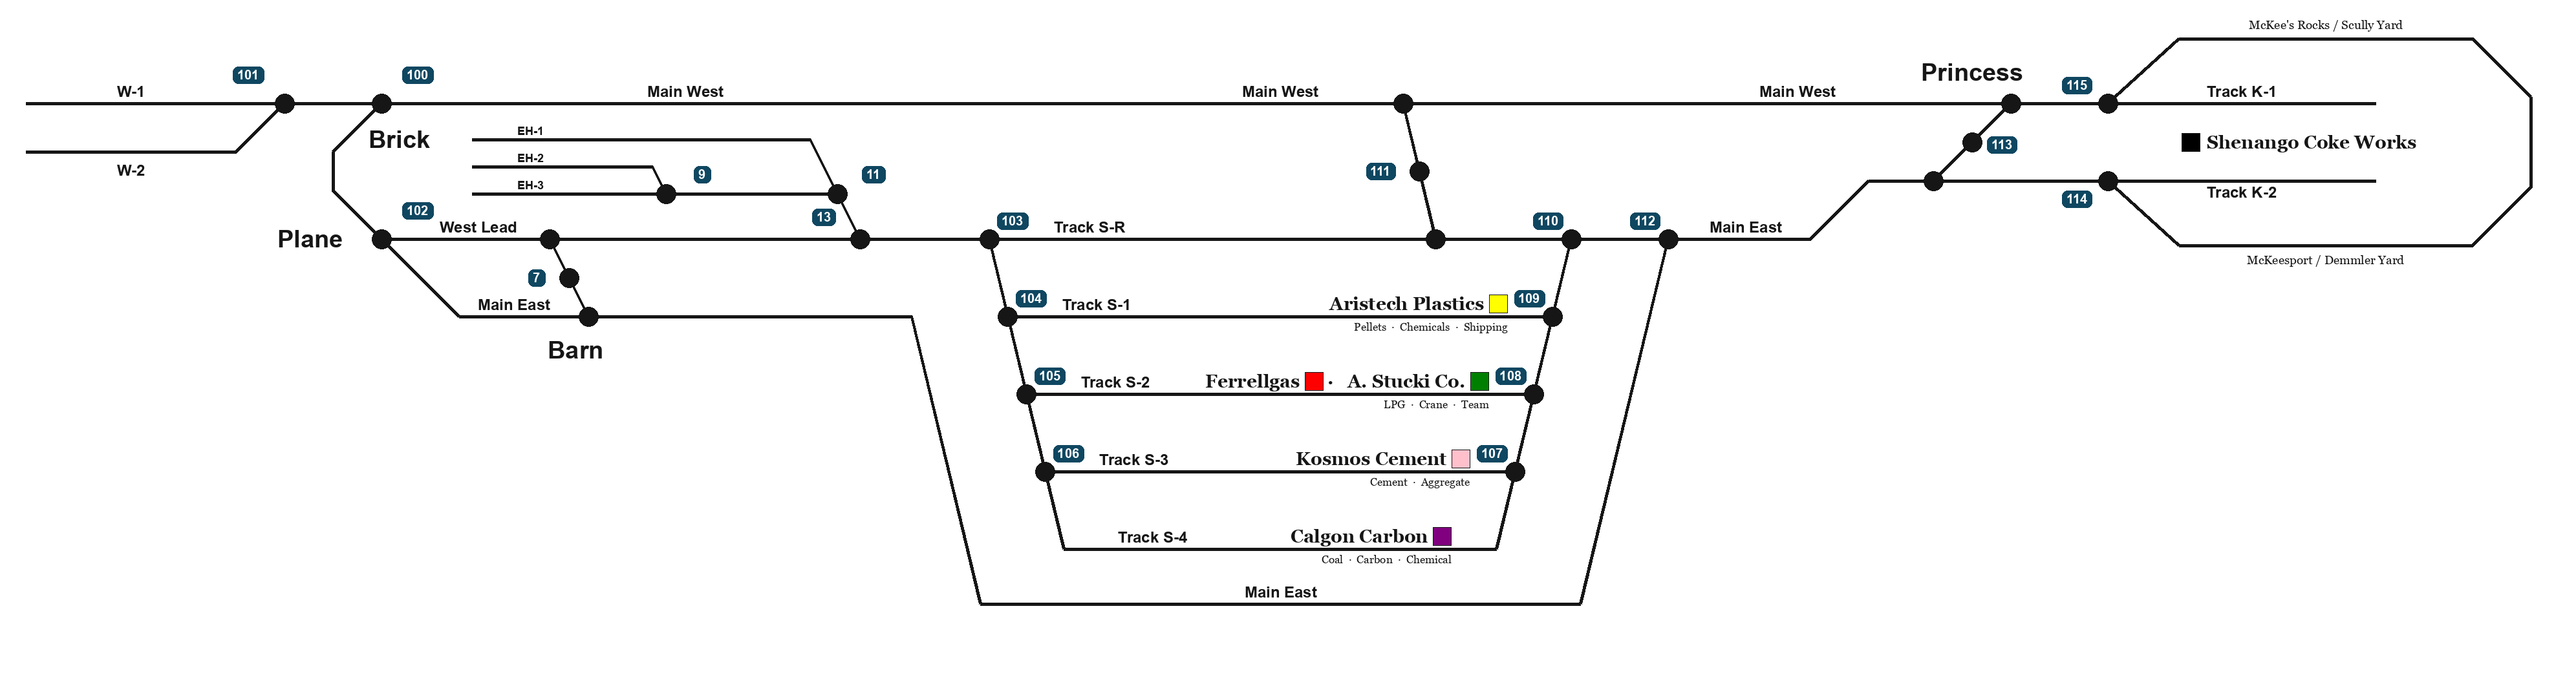
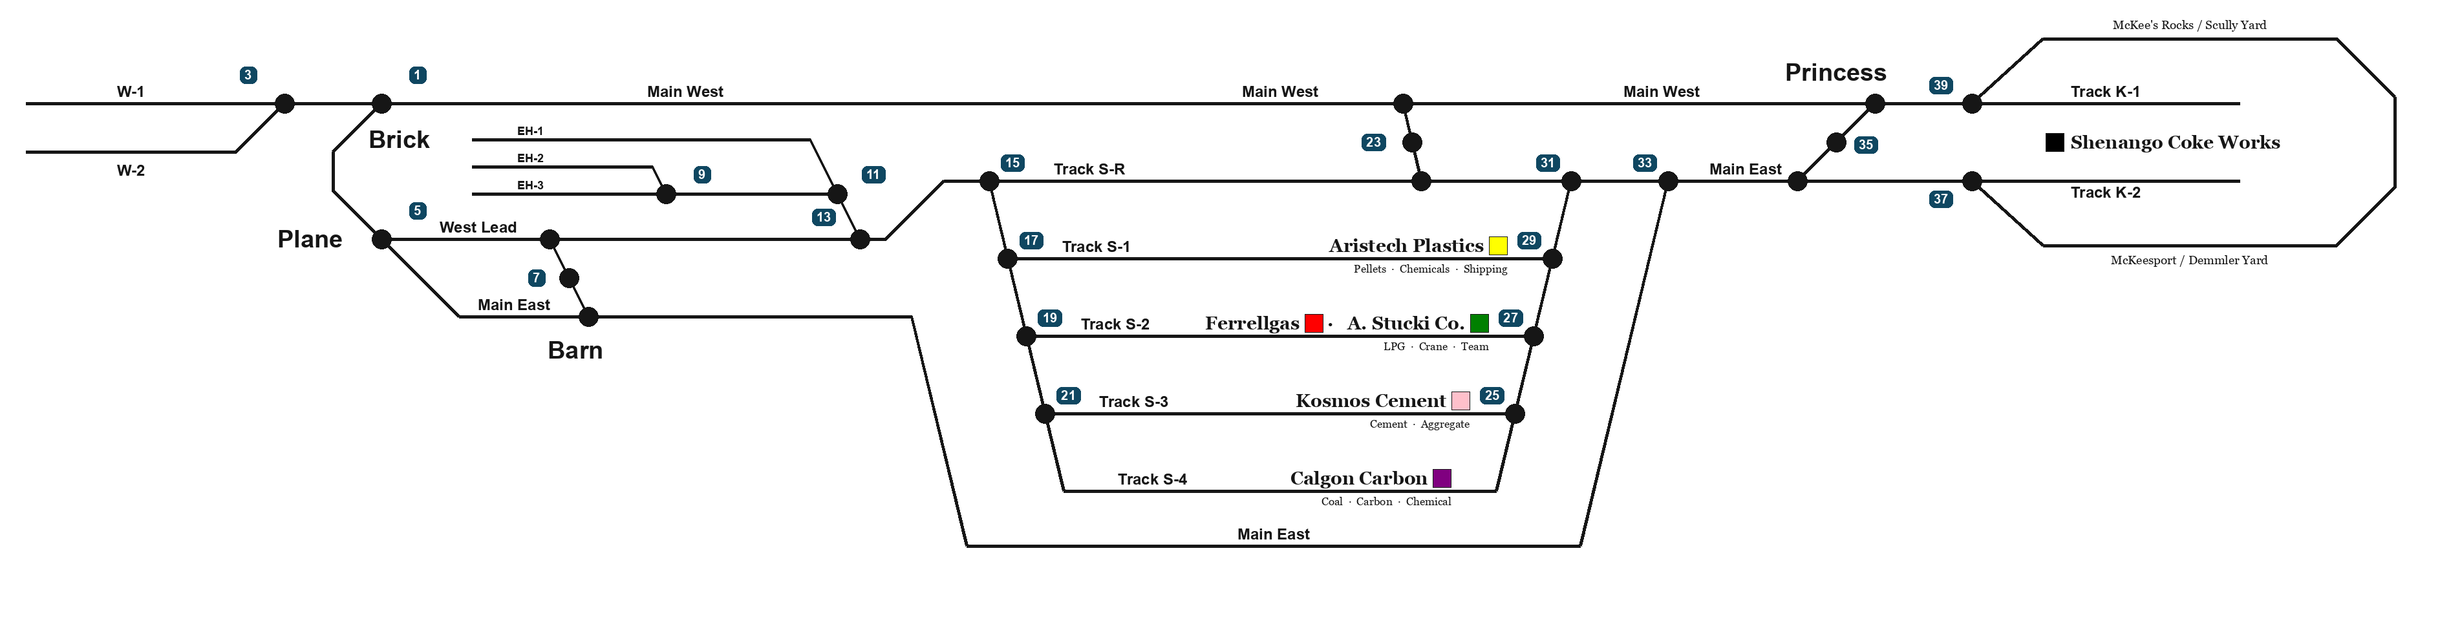
Lift the West Lead between 13 and 103 so the yard sits under Main West and 111 is no longer stretched, and use the CTC switch numbers (ADR-005) instead of the 100-series on the stitched map.

diff --git a/ops/hart-ops/publications/rebuild_station_map_full.py b/ops/hart-ops/publications/rebuild_station_map_full.py
@@ -38,16 +38,19 @@ from rebuild_local_station_maps import (  # noqa: E402
 
 OUT = PUB / "assets" / "station_map_full.png"
 
+SWNUM = {100: 1, 101: 3, 102: 5, 103: 15, 104: 17, 105: 19, 106: 21, 107: 25, 108: 27,
+         109: 29, 110: 31, 111: 23, 112: 33, 113: 35, 114: 37, 115: 39}  # ADR-005
 LW = 4
 DOT_R = 15
 K = 0.24  # ladder slope, dx per dy (same as the sheets)
 
 Y0 = 160  # Main West
-R1 = 210  # Main West to S-R / West Lead
+P_GAP = 120  # Main West to the S-R / Main East row, from the jog to Princess
+R1 = 210  # Main West to the West Lead at Plane
+W0 = Y0 + R1  # West Lead row, west of the jog before 103
 G = 120  # row pitch in the yard
-S = [Y0 + R1 + i * G for i in range(5)]  # S-R, S-1 .. S-4
+S = [Y0 + P_GAP + i * G for i in range(5)]  # S-R, S-1 .. S-4 (yard, east of the jog)
 ME_LOW = S[4] + 85  # Main East under the yard
-P_GAP = 120  # Main West to Main East at Princess
 
 track_font = _font(ARIAL_BOLD, 24)
 cp_font = _font(ARIAL_BOLD, 38)
@@ -69,9 +72,7 @@ def main() -> None:
     turn_x = x103 - 120  # Main East leaves its high row
     x110 = x103 + 900
     x112 = x110 + 150
-    ts = x112 + 220  # taper start (Main East rises to sit beside Main West)
-    te = ts + (S[0] - (Y0 + P_GAP))
-    t113x = te + 100
+    t113x = x112 + 200
     xp = t113x + P_GAP  # Princess
     t115x = xp + 150
     x_end = xp + 564
@@ -98,7 +99,7 @@ def main() -> None:
 
     # ── West Yard ────────────────────────────────────────────────────────
     plane = (xb, Y0 + 2 * s_leg + vert)
-    assert plane[1] == S[0], (plane, S[0])
+    assert plane[1] == W0, (plane, W0)
     p1 = (xb - s_leg, Y0 + s_leg)
     p2 = (p1[0], p1[1] + vert)
     t101 = (x101, Y0)
@@ -112,9 +113,9 @@ def main() -> None:
     lab((stub_mid, Y0 - 18), "W-1", track_font)
     lab((stub_mid, w2c[1] + 20), "W-2", track_font, "mt")
     dot(t101)
-    badge((x101 - 56, Y0 - 44), "101")
+    badge((x101 - 56, Y0 - 44), "{}".format(SWNUM[101]))
     dot((xb, Y0))
-    badge((xb + 56, Y0 - 44), "100")
+    badge((xb + 56, Y0 - 44), "{}".format(SWNUM[100]))
     lab((xb + 28, Y0 + 56), "Brick", cp_font)
 
     # Brick lead to Plane
@@ -123,22 +124,28 @@ def main() -> None:
     line(p2, plane)
     dot(plane)
     lab((plane[0] - 60, plane[1]), "Plane", cp_font, "rm")
-    badge((plane[0] + 56, plane[1] - 44), "102")
+    badge((plane[0] + 56, plane[1] - 44), "{}".format(SWNUM[102]))
 
     # West Lead (S-R) runs east from Plane; Main East drops one row and runs east
-    me_hi = S[1]
-    me_corner = (xb + (me_hi - S[0]), me_hi)
-    line(plane, (x110, S[0]))  # West Lead / S-R to 110
+    me_hi = W0 + G
+    me_corner = (xb + (me_hi - W0), me_hi)
+    # West Lead jogs up 45 degrees between 13 and 103, so the yard sits close
+    # under Main West and nothing downstream is stretched
+    xj0 = takeoff_x + 40
+    xj1 = xj0 + (W0 - S[0])
+    line(plane, (xj0, W0))
+    line((xj0, W0), (xj1, S[0]))
+    line((xj1, S[0]), (x110, S[0]))  # S-R to 110
     line((x110, S[0]), (x112, S[0]))  # S-R links 110 to 112
     line(plane, me_corner)
     line(me_corner, (turn_x, me_hi))
-    lab((xb + 150, S[0] - 18), "West Lead", track_font)
+    lab((xb + 150, W0 - 18), "West Lead", track_font)
     lab((xb + 205, me_hi - 18), "Main East", track_font)
 
     # ── Barn (SM-06): switch 7 crossover, 13 / 11 / 9, EH-1 to EH-3 ─────
     x7 = xb + 260
-    sw7_top = (x7, S[0])
-    sw7_bot = (x7 + (me_hi - S[0]) * 0.5, me_hi)
+    sw7_top = (x7, W0)
+    sw7_bot = (x7 + (me_hi - W0) * 0.5, me_hi)
     sw7_mid = ((sw7_top[0] + sw7_bot[0]) / 2, (sw7_top[1] + sw7_bot[1]) / 2)
     line(sw7_top, sw7_bot)
     for p in (sw7_top, sw7_mid, sw7_bot):
@@ -146,13 +153,13 @@ def main() -> None:
     badge((sw7_mid[0] - 50, sw7_mid[1]), "7")
     lab((sw7_mid[0] + 10, me_hi + 52), "Barn", cp_font)
 
-    eh = {3: S[0] - 70, 2: S[0] - 112, 1: S[0] - 154}
+    eh = {3: W0 - 70, 2: W0 - 112, 1: W0 - 154}
     x_eh = xb + 140
 
     def up_left(p, y):
         return (p[0] + 0.5 * (y - p[1]), y)
 
-    sw13 = (takeoff_x, S[0])
+    sw13 = (takeoff_x, W0)
     sw11 = up_left(sw13, eh[3])
     eh1_join = up_left(sw13, eh[1])
     sw9 = (takeoff_x - 300, eh[3])
@@ -164,7 +171,7 @@ def main() -> None:
     line(eh2_join, sw9)
     for p in (sw13, sw11, sw9):
         dot(p)
-    badge((sw13[0] - 56, S[0] - 34), "13")
+    badge((sw13[0] - 56, W0 - 34), "13")
     badge((sw11[0] + 56, sw11[1] - 30), "11")
     badge((sw9[0] + 56, sw9[1] - 30), "9")
     for n in (1, 2, 3):
@@ -180,7 +187,7 @@ def main() -> None:
     line(top, bot)
     for num, y in ((103, S[0]), (104, S[1]), (105, S[2]), (106, S[3])):
         dot((lad_w(y), y))
-        badge((lad_w(y) + 36, y - 28), str(num))
+        badge((lad_w(y) + 36, y - 28), str(SWNUM[num]))
 
     # Main East: high row → down the west side of the ladder → under the yard
     me_foot = (turn_x + (ME_LOW - me_hi) * K, ME_LOW)
@@ -196,7 +203,7 @@ def main() -> None:
     line(etop, ebot)
     for num, y in ((110, S[0]), (109, S[1]), (108, S[2]), (107, S[3])):
         dot((lad_e(y), y))
-        badge((lad_e(y) - 36, y - 28), str(num))
+        badge((lad_e(y) - 36, y - 28), str(SWNUM[num]))
 
     # 111: Main West ↔ S-R
     x111 = x110 - 260
@@ -207,7 +214,7 @@ def main() -> None:
     dot(sw111_bot)
     mid111 = (x111 + (S[0] - Y0) * K * 0.5, (Y0 + S[0]) / 2)
     dot(mid111)
-    badge((mid111[0] - 60, mid111[1]), "111")
+    badge((mid111[0] - 60, mid111[1]), "{}".format(SWNUM[111]))
 
     # S-R label, then yard tracks with industries
     lab((x103 + 100, S[0] - 18), "Track S-R", track_font, "lm")
@@ -247,14 +254,12 @@ def main() -> None:
     line(me_foot, (me_turn_x, ME_LOW))
     line((me_turn_x, ME_LOW), (x112, S[0]))
     dot((x112, S[0]))
-    badge((x112 - 36, S[0] - 28), "112")
+    badge((x112 - 36, S[0] - 28), "{}".format(SWNUM[112]))
     lab(((me_foot[0] + me_turn_x) / 2, ME_LOW - 18), "Main East", track_font)
 
     # ── Princess / Shenango ──────────────────────────────────────────────
     y2 = Y0 + P_GAP
-    line((x112, S[0]), (ts, S[0]))
-    line((ts, S[0]), (te, y2))
-    line((te, y2), (x_end, y2))
+    line((x112, y2), (x_end, y2))
     lab((x112 + 120, S[0] - 18), "Main East", track_font)
 
     # Main West label stations along the top
@@ -270,7 +275,7 @@ def main() -> None:
     dot(mid113)
     dot(t113)
     lab((mid113[0], Y0 - 48), "Princess", cp_font)
-    badge((mid113[0] + 46, mid113[1] + 4), "113")
+    badge((mid113[0] + 46, mid113[1] + 4), "{}".format(SWNUM[113]))
 
     y_top = Y0 - 100
     y_bot = y2 + 100
@@ -287,8 +292,8 @@ def main() -> None:
     line(top_r, bot_r)
     dot((t115x, Y0))
     dot((t115x, y2))
-    badge((t115x - 48, Y0 - 28), "115")
-    badge((t115x - 48, y2 + 28), "114")
+    badge((t115x - 48, Y0 - 28), "{}".format(SWNUM[115]))
+    badge((t115x - 48, y2 + 28), "{}".format(SWNUM[114]))
 
     k_x = (t115x + x_end) / 2
     lab((k_x, Y0 - 18), "Track K-1", track_font)
